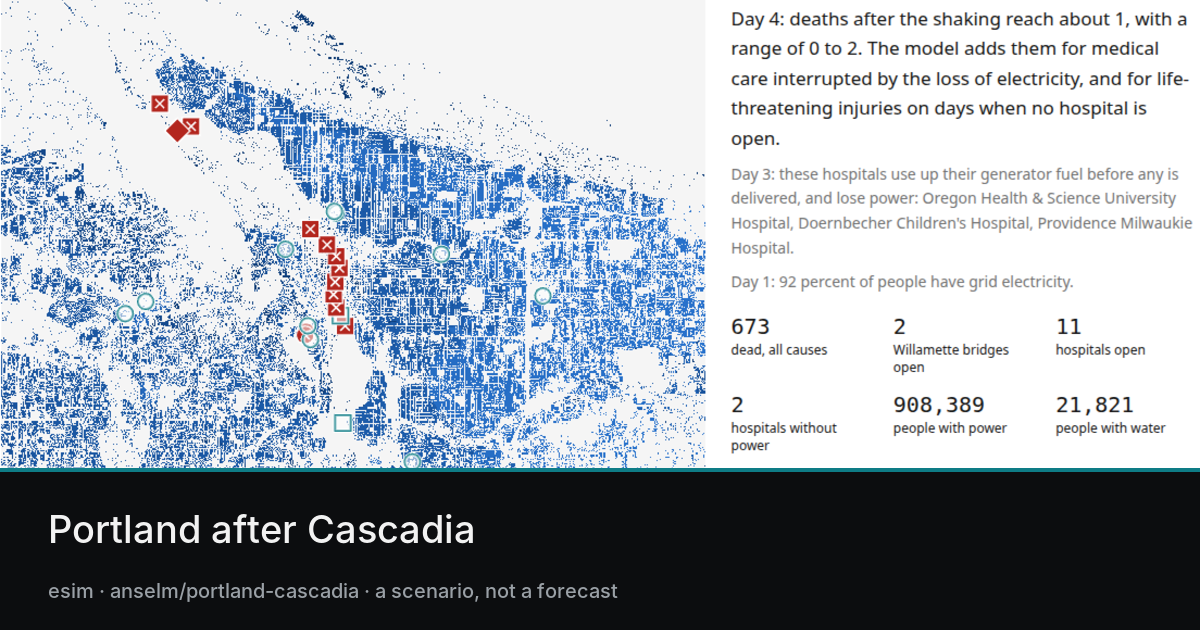
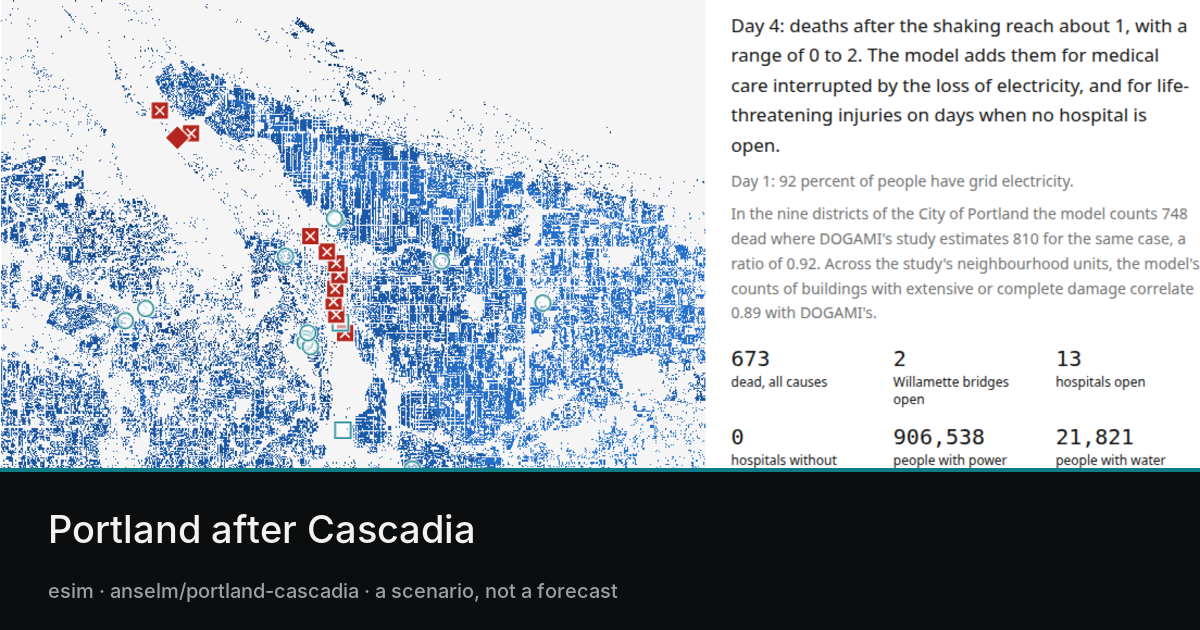
Portland: hazard.components split into four subject modules. fuel.tanks, roads.bridges, power.structures and roads.routes each own one kind of thing from start to finish on the event folder's tables and fragility.toml, with a shared fragility library and no place named in the code; portland.lifeline
Claude-Session: https://claude.ai/code/session_018TGCFiQHbUYn12HkNti2xk

diff --git a/portland-cascadia/README.md b/portland-cascadia/README.md
@@ -18,9 +18,9 @@ hospitals have power, how much fuel is left and how many people die. The date is
 knows when the fault will next rupture.
 
 The model is assembled from published studies of this earthquake, and it is early work. It does
-put numbers on both sides of the storage argument. In its base run the terminals spill 60.6
-million gallons and keep 172.9 million. With a fifth less fuel held they spill less and keep
-138.3 million. With every tank retrofitted they spill a small fraction as much and keep 228.7
+put numbers on both sides of the storage argument. In its base run the terminals spill 67.8
+million gallons and keep 165.7 million. With a fifth less fuel held they spill less and keep
+132.5 million. With every tank retrofitted they spill a small fraction as much and keep 228.7
 million. But several of the model's results disagree with the studies they can be checked
 against, and many of its parameters are recalled from memory or guessed. The spill is smaller than
 the 2022 study's minimum, electricity returns months sooner than the state expects, and the
@@ -251,15 +251,16 @@ buildings without collapsing them, and a destroyed building that has not collaps
 its occupants. Removing the liquefaction therefore removes many destroyed buildings and few
 deaths.
 
-**The spill.** In the base run 233 of the 587 tanks fail and release 60.6 million gallons: 34.4
-million onto the ground and 26.2 million toward the river. The 2022 study estimates 95 to 194
-million gallons, so the model's release is about two thirds of the study's minimum. The release
-from each failed tank follows the study's own rule, so the shortfall lies in how many tanks fail.
-That number comes from a tank fragility curve that is recalled from memory and unverified.
+**The spill.** In the base run 270 of the 587 tanks fail and release 67.8 million gallons: 43.5
+million onto the ground and 24.3 million toward the river. The other two seeds release 51.0 and
+69.1 million. The 2022 study estimates 95 to 194 million gallons, so the model's release is
+between a half and three quarters of the study's minimum. The release from each failed tank
+follows the study's own rule, so the shortfall lies in how many tanks fail. That number comes from
+a tank fragility curve that is recalled from memory and unverified.
 
 The variants move the spill in the direction one would expect. Holding 20 percent less fuel cuts
-the release toward the river from 26.2 to 21.0 million gallons. Retrofitting every tank cuts it to
-2.0 million. On dry soil 97 tanks fail and 3.7 million gallons go toward the river, which shows
+the release toward the river from 24.3 to 19.4 million gallons. Retrofitting every tank cuts it to
+1.6 million. On dry soil 113 tanks fail and 9.1 million gallons go toward the river, which shows
 how much of the spill in this model comes from liquefaction under the tanks.
 
 ### Three days after
@@ -269,10 +270,17 @@ table 2027-02-04T22:00Z lifeline.crossings_open=bridges_open service.power_share
 ```
 
 **Bridges.** Ten of the twelve bridges close in the base run. Only Tilikum Crossing and the
-Sellwood Bridge, the two newest, still join the two banks of the river. The Broadway Bridge
-reopens after 21 days and the Marquam and Burnside bridges after 120 days. The other seven take the worst level of damage and are still closed when the run ends,
-eleven months after the earthquake. The repair time this project assigned to that level for an
-older bridge is 365 days, which is a judgement.
+Sellwood Bridge, the two newest, still join the two banks of the river. All ten closed bridges
+take the worst level of damage and are still closed when the run ends, eleven months after the
+earthquake. The repair time this project assigned to that level for an older bridge is 365 days,
+which is a judgement.
+
+The other seeds show how much of this is the draw. With seed 3, seven bridges take the worst
+damage, and the Hawthorne, Morrison and Broadway bridges take moderate damage and reopen after 21
+days. With seed 2, eight older bridges take the worst damage, the Ross Island Bridge reopens after
+120 days and the Fremont Bridge stays open, but Tilikum Crossing, one of the two modern bridges,
+is closed for 200 days. On dry soil nine of the ten older bridges still take the worst damage, so
+in this model it is the shaking that closes them, and the liquefaction adds little.
 
 Multnomah County says none of the downtown bridges is expected to be usable immediately after a
 major earthquake, and that it could be weeks to years before any is. The model's result resembles
@@ -284,22 +292,25 @@ It changes a setting that only the earlier version of the model reads, so its re
 identical to the base run's.
 
 **Electricity.** In the base run 90 percent of people keep their electricity at the moment of the
-earthquake. The share is 95 percent on day 3 and 97 percent on day 7, and everyone has power by
-day 22. The Resilience Plan expects one to three months. The model is this far from the plan
-because transmission structures are the only part of the power system it contains. Of the 6,146
-structures 586 fail, and crews repair twelve a day. The model has no substations, power lines or
+earthquake. The share is 94 percent on day 3 and 97 percent on day 7. It passes 99.9 percent on
+day 22, and the last few people have power on day 33. The Resilience Plan expects one to three
+months. The model is this far from the plan because transmission structures are the only part of
+the power system it contains. Of the 6,146 structures 614 fail, and crews repair twelve a day. The model has no substations, power lines or
 neighbourhood distribution, so none of those can fail in it. This is the model's least credible
 result, and two others depend on it: how many hospitals lose power, and how many people die in the
 months after.
 
-**Hospitals.** All thirteen hospital buildings stand in the base run. Three have no grid
-electricity and cannot be reached by a fuel truck, so they lose power on day 3 when their
-generators run out: Oregon Health & Science University Hospital, Doernbecher Children's Hospital
-and Providence Milwaukie Hospital. Two are still without power on day 7 and none by day 14.
+**Hospitals.** All thirteen hospital buildings stand in every run. In the base run none of them
+loses power: the grid is back at each one before its generator fuel runs out. That is the draw,
+and not a finding. With seed 2 the Portland VA Medical Center has no grid electricity and cannot
+be reached by a fuel truck, so it loses power on day 3 when its generators run out, and it is
+still without power on day 7. With seed 3 Shriners Hospitals for Children and Providence
+Milwaukie Hospital lose power on day 3. No hospital is without power by day 14 in any of the
+three.
 
 The `ranges` variant shows how much this depends on the electricity result. There, electricity
 returns on the Resilience Plan's schedule, and eleven of the thirteen hospitals lose power on
-day 3. The true figure for this scenario is unknown, and the model cannot narrow it until it
+day 3 and are still without it on day 14. The true figure for this scenario is unknown, and the model cannot narrow it until it
 represents more of the power system. The model also does not represent hospital capacity. It has
 no beds, staff or supplies, and no damage inside a hospital building that still stands.
 
@@ -310,18 +321,18 @@ table 2028-01-01T08:00Z after.deaths=deaths_after_the_shaking fuel.consumed_gal=
 ```
 
 **Roads.** In the base run 22 percent of the emergency route length is open during the first week,
-27 percent on day 30 and 61 percent on day 90. All of it is open by day 180. No hospital can be
-reached by road from the hub until day 111. The three hospitals that lost power on day 3 got it
-back from the grid, long before a fuel truck could have reached them.
+29 percent on day 30 and 65 percent on day 90. All of it is open by day 178. No hospital can be
+reached by road from the hub until day 119, or day 113 and day 89 with the other two seeds. In the
+seeds where a hospital lost power on day 3, it got power back from the grid long before a fuel
+truck could have reached it.
 
 **Fuel.** That delay exposes a fault in the fuel accounting. The model starts counting the
 emergency response's fuel use only once a truck can reach a hospital. In the base run the response
-therefore uses no fuel for 110 days, which is not a result to rely on. Meanwhile resupply resumes
-on day 14, and the hub is back to its starting stock about two and a half months after the
-earthquake.
+therefore uses no fuel for 118 days, which is not a result to rely on. Meanwhile resupply resumes
+on day 14, and the hub is back to its starting stock 81 days after the earthquake.
 
 The model does show the two sides of the storage argument as numbers. After the spill the hub
-holds 172.9 million gallons in the base run, 138.3 million with 20 percent less fuel held, 228.7
+holds 165.7 million gallons in the base run, 132.5 million with 20 percent less fuel held, 228.7
 million with every tank retrofitted, and nothing with no hub. In this model, holding less fuel
 gives a smaller spill and a smaller reserve, and retrofitting the tanks gives the smallest spill
 and the largest reserve.
@@ -340,16 +351,16 @@ day 300. That leaves 841,676 people without water for more than a month.
 **Deaths after the shaking.** The model adds deaths in the months that follow by two rules. One applies
 a death rate to every day a person spends without electricity, standing for medical care that is
 interrupted. The other lets people with life-threatening injuries die on any day when no hospital
-is open. The base run adds 2 deaths by the end of the year, with a range of 0.3 to 3.7, all from
+is open. The base run adds 2 deaths by the end of the year, with a range of 0.4 to 3.9, all from
 interrupted care. The `ranges` variant adds 66, with a range of 11 to 121. The whole difference is
-the length of the power cut: 443,000 person-days without electricity in the base run against 14.5
+the length of the power cut: 465,000 person-days without electricity in the base run against 14.5
 million in the `ranges` variant. Nobody dies of untreated injuries in either run, because some
 hospitals stay open throughout. Since the base run restores electricity far faster than the
 Resilience Plan expects, its figure of 2 deaths is too low by the model's own logic.
 
 The 2022 study also estimates deaths at the hub itself if the spill ignites: 0 to 7 among about
 1,200 workers. The model draws a number in that range and scales it by the size of the release,
-which adds about one death in the base run. It does not model the fire.
+which adds between one and two deaths in the base run. It does not model the fire.
 
 ## What cannot be trusted yet
 
@@ -358,11 +369,11 @@ which adds about one death in the base run. It does not model the fire.
 - **Recalled values.** The fragility curves for buildings, tanks and the two modern bridges, and
   every casualty rate, are recalled from memory of the Hazus manual and have not been checked
   against it.
-- **The spill.** The base run releases about two thirds of the 2022 study's minimum.
+- **The spill.** The runs release between a half and three quarters of the 2022 study's minimum.
 - **Electricity.** It returns in three weeks where the Resilience Plan expects one to three months,
   because the model contains only transmission structures.
 - **Fuel use.** The response's daily use, the hospitals' generator fuel and the date and rate of
-  resupply are guesses, and the response uses no fuel for the first 110 days.
+  resupply are guesses, and the response uses no fuel for the first 118 days.
 - **Water.** The restoration schedule is assumed, not computed.
 - **Deaths after the shaking.** They rest on one rate borrowed from another disaster and on the
   model's electricity result.
@@ -451,7 +462,9 @@ wiring
 
 The text was drafted in November 2026 by Claude, an AI model, for Anselm Hook's esim project. The
 tables are drawn from the latest runs each time the page loads. The numbers in the prose were read
-from the runs of 12 November 2026.
+from the runs of 14 November 2026. They differ from the first version of this page because the
+model's parts were separated into independent modules that day, and each module now makes its own
+random draws.
 
 ## What this page has read
 
@@ -465,6 +478,13 @@ Every source was read on 12 November 2026 unless noted.
   Taken: that the rule cuts capacity and not fuel held, the energy department's position and the
   2025 pipeline shutdown.
 - r/Portland, the discussion thread on that story, 12 November 2026.
+- Michaela Bourgeois, *Portland City Council approves reduced fuel storage along Willamette River
+  amid Cascadia concerns*, KOIN, published 12 or 13 November 2026. Read on 14 November through an
+  automated summary of the page, not the article's own text. Nothing on this page is taken from it
+  yet. The summary reports that the ordinance requires a risk reduction plan for the hub by 30
+  September 2027, covering evacuation of Linnton and firefighting access that does not depend on
+  bridges likely to be damaged, and reports to the council in 2028, 2031 and 2036. Those points are
+  to be checked against the ordinance before they are used.
 - *CEI Hub Seismic Risk Analysis*, ECONorthwest, Salus Resilience and Enduring Econometrics, for
   Multnomah County and the City of Portland, February 2022. Read in full. Taken: the tank counts
   and ages, capacity and contents, the release rules and release range, the split between ground
